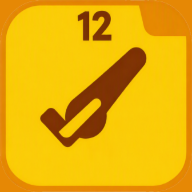
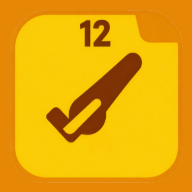
アイコンを ほんの少し縮小（橙の枠が全周 見えるように）— 司さんの指摘
実機のホーム画面で ★橙の枠が端末の丸めに削られて 見えなくなっていた★。
・カードを ★90%★ に縮めた（下地は枠と同じ橙なので 縮めても白は出ない）
  倍率は 100/94/90/86/82% を ★丸めた形で並べて見比べて★ 決めた
・maskable（Android）は 74%（内側だけ残す機種でも図柄が切れない）

実測: 5枚の端 5712点 ／ ★白 0点・薄い色 0点★
node tests/run.js → 全部 緑（32本）

Claude-Session: https://claude.ai/code/session_01XubSutqQm3uxgvTByL8qyQ

diff --git a/index.html b/index.html
@@ -4,24 +4,24 @@
     <meta charset="utf-8" />
     <meta name="viewport" content="width=device-width,initial-scale=1,viewport-fit=cover" />
     <title>Timeally — 一覧</title>
-    <link rel="icon" href="icons/favicon-32.png?v=eb03f239" sizes="32x32" />
-    <link rel="apple-touch-icon" href="icons/apple-touch-icon.png?v=eb03f239" />
+    <link rel="icon" href="icons/favicon-32.png?v=f5c28e80" sizes="32x32" />
+    <link rel="apple-touch-icon" href="icons/apple-touch-icon.png?v=f5c28e80" />
     <meta name="apple-mobile-web-app-capable" content="yes" />
     <meta name="apple-mobile-web-app-status-bar-style" content="default" />
     <meta name="apple-mobile-web-app-title" content="Timeally" />
     <meta name="theme-color" content="#FFC72C" />
-    <link rel="manifest" href="manifest.json?v=eb03f239" />
+    <link rel="manifest" href="manifest.json?v=f5c28e80" />
     <link rel="preconnect" href="https://fonts.googleapis.com" />
     <link rel="preconnect" href="https://fonts.gstatic.com" crossorigin />
     <link href="https://fonts.googleapis.com/css2?family=DM+Mono:wght@400;500&family=Noto+Sans+JP:wght@400;700&display=swap" rel="stylesheet" />
-    <link rel="stylesheet" href="css/timeally.css?v=eb03f239" />
+    <link rel="stylesheet" href="css/timeally.css?v=f5c28e80" />
   </head>
   <body>
     <div class="tc-appbar">
       <h1>Timeally</h1>
       <span class="tc-sub" id="coname"></span>
       <span class="tc-spacer"></span>
-      <a class="tc-btn sub" href="shukei.html?v=eb03f239">集計・印刷</a>
+      <a class="tc-btn sub" href="shukei.html?v=f5c28e80">集計・印刷</a>
     </div>
 
     <div class="tc-wrap" id="main" hidden>
@@ -108,17 +108,17 @@
       </section>
     </div>
     <script src="https://cdn.jsdelivr.net/npm/@supabase/supabase-js@2"></script>
-    <script src="js/supa-config.js?v=eb03f239"></script>
-    <script src="js/env-badge.js?v=eb03f239"></script>
-    <script src="lib/tc-law.js?v=eb03f239"></script>
-    <script src="lib/tc-calc.js?v=eb03f239"></script>
-    <script src="lib/tc-csv.js?v=eb03f239"></script>
-    <script src="lib/tc-name.js?v=eb03f239"></script>
-    <script src="lib/qr.js?v=eb03f239"></script>
-    <script src="js/file-out.js?v=eb03f239"></script>
-    <script src="js/tc-ui.js?v=eb03f239"></script>
-    <script src="js/tc-db.js?v=eb03f239"></script>
-    <script src="js/owner-app.js?v=eb03f239"></script>
+    <script src="js/supa-config.js?v=f5c28e80"></script>
+    <script src="js/env-badge.js?v=f5c28e80"></script>
+    <script src="lib/tc-law.js?v=f5c28e80"></script>
+    <script src="lib/tc-calc.js?v=f5c28e80"></script>
+    <script src="lib/tc-csv.js?v=f5c28e80"></script>
+    <script src="lib/tc-name.js?v=f5c28e80"></script>
+    <script src="lib/qr.js?v=f5c28e80"></script>
+    <script src="js/file-out.js?v=f5c28e80"></script>
+    <script src="js/tc-ui.js?v=f5c28e80"></script>
+    <script src="js/tc-db.js?v=f5c28e80"></script>
+    <script src="js/owner-app.js?v=f5c28e80"></script>
     <script>
       OwnerApp.startIndex();
     </script>

diff --git a/shukei.html b/shukei.html
@@ -4,24 +4,24 @@
     <meta charset="utf-8" />
     <meta name="viewport" content="width=device-width,initial-scale=1,viewport-fit=cover" />
     <title>Timeally — 集計・印刷</title>
-    <link rel="icon" href="icons/favicon-32.png?v=eb03f239" sizes="32x32" />
-    <link rel="apple-touch-icon" href="icons/apple-touch-icon.png?v=eb03f239" />
+    <link rel="icon" href="icons/favicon-32.png?v=f5c28e80" sizes="32x32" />
+    <link rel="apple-touch-icon" href="icons/apple-touch-icon.png?v=f5c28e80" />
     <meta name="apple-mobile-web-app-capable" content="yes" />
     <meta name="apple-mobile-web-app-status-bar-style" content="default" />
     <meta name="apple-mobile-web-app-title" content="Timeally" />
     <meta name="theme-color" content="#FFC72C" />
-    <link rel="manifest" href="manifest.json?v=eb03f239" />
+    <link rel="manifest" href="manifest.json?v=f5c28e80" />
     <link rel="preconnect" href="https://fonts.googleapis.com" />
     <link rel="preconnect" href="https://fonts.gstatic.com" crossorigin />
     <link href="https://fonts.googleapis.com/css2?family=DM+Mono:wght@400;500&family=Noto+Sans+JP:wght@400;700&display=swap" rel="stylesheet" />
-    <link rel="stylesheet" href="css/timeally.css?v=eb03f239" />
+    <link rel="stylesheet" href="css/timeally.css?v=f5c28e80" />
   </head>
   <body>
     <div class="tc-appbar">
       <h1>Timeally</h1>
       <span class="tc-sub">集計・印刷</span>
       <span class="tc-spacer"></span>
-      <a class="tc-btn sub" href="index.html?v=eb03f239">一覧へ</a>
+      <a class="tc-btn sub" href="index.html?v=f5c28e80">一覧へ</a>
     </div>
 
     <div class="tc-wrap" id="main" hidden>
@@ -54,16 +54,16 @@
       </div>
     </div>
     <script src="https://cdn.jsdelivr.net/npm/@supabase/supabase-js@2"></script>
-    <script src="js/supa-config.js?v=eb03f239"></script>
-    <script src="js/env-badge.js?v=eb03f239"></script>
-    <script src="lib/tc-law.js?v=eb03f239"></script>
-    <script src="lib/tc-calc.js?v=eb03f239"></script>
-    <script src="lib/tc-csv.js?v=eb03f239"></script>
-    <script src="lib/tc-name.js?v=eb03f239"></script>
-    <script src="js/file-out.js?v=eb03f239"></script>
-    <script src="js/tc-ui.js?v=eb03f239"></script>
-    <script src="js/tc-db.js?v=eb03f239"></script>
-    <script src="js/owner-app.js?v=eb03f239"></script>
+    <script src="js/supa-config.js?v=f5c28e80"></script>
+    <script src="js/env-badge.js?v=f5c28e80"></script>
+    <script src="lib/tc-law.js?v=f5c28e80"></script>
+    <script src="lib/tc-calc.js?v=f5c28e80"></script>
+    <script src="lib/tc-csv.js?v=f5c28e80"></script>
+    <script src="lib/tc-name.js?v=f5c28e80"></script>
+    <script src="js/file-out.js?v=f5c28e80"></script>
+    <script src="js/tc-ui.js?v=f5c28e80"></script>
+    <script src="js/tc-db.js?v=f5c28e80"></script>
+    <script src="js/owner-app.js?v=f5c28e80"></script>
     <script>
       OwnerApp.startShukei();
     </script>

diff --git a/login.html b/login.html
@@ -4,17 +4,17 @@
     <meta charset="utf-8" />
     <meta name="viewport" content="width=device-width,initial-scale=1,viewport-fit=cover" />
     <title>Timeally — 会社の入口</title>
-    <link rel="icon" href="icons/favicon-32.png?v=eb03f239" sizes="32x32" />
-    <link rel="apple-touch-icon" href="icons/apple-touch-icon.png?v=eb03f239" />
+    <link rel="icon" href="icons/favicon-32.png?v=f5c28e80" sizes="32x32" />
+    <link rel="apple-touch-icon" href="icons/apple-touch-icon.png?v=f5c28e80" />
     <meta name="apple-mobile-web-app-capable" content="yes" />
     <meta name="apple-mobile-web-app-status-bar-style" content="default" />
     <meta name="apple-mobile-web-app-title" content="Timeally" />
     <meta name="theme-color" content="#FFC72C" />
-    <link rel="manifest" href="manifest.json?v=eb03f239" />
+    <link rel="manifest" href="manifest.json?v=f5c28e80" />
     <link rel="preconnect" href="https://fonts.googleapis.com" />
     <link rel="preconnect" href="https://fonts.gstatic.com" crossorigin />
     <link href="https://fonts.googleapis.com/css2?family=DM+Mono:wght@400;500&family=Noto+Sans+JP:wght@400;700&display=swap" rel="stylesheet" />
-    <link rel="stylesheet" href="css/timeally.css?v=eb03f239" />
+    <link rel="stylesheet" href="css/timeally.css?v=f5c28e80" />
   </head>
   <body>
     <div class="tc-appbar">
@@ -43,11 +43,11 @@
     </div>
 
     <script src="https://cdn.jsdelivr.net/npm/@supabase/supabase-js@2"></script>
-    <script src="js/supa-config.js?v=eb03f239"></script>
-    <script src="js/env-badge.js?v=eb03f239"></script>
-    <script src="js/tc-ui.js?v=eb03f239"></script>
-    <script src="js/tc-db.js?v=eb03f239"></script>
-    <script src="js/owner-app.js?v=eb03f239"></script>
+    <script src="js/supa-config.js?v=f5c28e80"></script>
+    <script src="js/env-badge.js?v=f5c28e80"></script>
+    <script src="js/tc-ui.js?v=f5c28e80"></script>
+    <script src="js/tc-db.js?v=f5c28e80"></script>
+    <script src="js/owner-app.js?v=f5c28e80"></script>
     <script>
       OwnerApp.startLogin();
     </script>

diff --git a/kiroku.html b/kiroku.html
@@ -5,8 +5,8 @@
     <meta name="viewport" content="width=device-width,initial-scale=1,viewport-fit=cover" />
     <meta name="format-detection" content="telephone=no" />
     <title>Timeally — 自分の記録</title>
-    <link rel="icon" href="icons/favicon-32.png?v=eb03f239" sizes="32x32" />
-    <link rel="apple-touch-icon" href="icons/apple-touch-icon.png?v=eb03f239" />
+    <link rel="icon" href="icons/favicon-32.png?v=f5c28e80" sizes="32x32" />
+    <link rel="apple-touch-icon" href="icons/apple-touch-icon.png?v=f5c28e80" />
     <meta name="apple-mobile-web-app-capable" content="yes" />
     <meta name="apple-mobile-web-app-status-bar-style" content="default" />
     <meta name="apple-mobile-web-app-title" content="Timeally" />
@@ -14,7 +14,7 @@
     <link rel="preconnect" href="https://fonts.googleapis.com" />
     <link rel="preconnect" href="https://fonts.gstatic.com" crossorigin />
     <link href="https://fonts.googleapis.com/css2?family=DM+Mono:wght@400;500&family=Noto+Sans+JP:wght@400;700&display=swap" rel="stylesheet" />
-    <link rel="stylesheet" href="css/timeally.css?v=eb03f239" />
+    <link rel="stylesheet" href="css/timeally.css?v=f5c28e80" />
   </head>
   <body>
     <div class="tc-appbar">
@@ -71,11 +71,11 @@
     </div>
 
     <script src="https://cdn.jsdelivr.net/npm/@supabase/supabase-js@2"></script>
-    <script src="js/supa-config.js?v=eb03f239"></script>
-    <script src="js/env-badge.js?v=eb03f239"></script>
-    <script src="js/tc-ui.js?v=eb03f239"></script>
-    <script src="js/tc-db.js?v=eb03f239"></script>
-    <script src="js/emp-app.js?v=eb03f239"></script>
+    <script src="js/supa-config.js?v=f5c28e80"></script>
+    <script src="js/env-badge.js?v=f5c28e80"></script>
+    <script src="js/tc-ui.js?v=f5c28e80"></script>
+    <script src="js/tc-db.js?v=f5c28e80"></script>
+    <script src="js/emp-app.js?v=f5c28e80"></script>
     <script>
       EmpApp.startKiroku();
     </script>

diff --git a/punch.html b/punch.html
@@ -5,8 +5,8 @@
     <meta name="viewport" content="width=device-width,initial-scale=1,viewport-fit=cover" />
     <meta name="format-detection" content="telephone=no" />
     <title>Timeally — 打刻</title>
-    <link rel="icon" href="icons/favicon-32.png?v=eb03f239" sizes="32x32" />
-    <link rel="apple-touch-icon" href="icons/apple-touch-icon.png?v=eb03f239" />
+    <link rel="icon" href="icons/favicon-32.png?v=f5c28e80" sizes="32x32" />
+    <link rel="apple-touch-icon" href="icons/apple-touch-icon.png?v=f5c28e80" />
     <meta name="apple-mobile-web-app-capable" content="yes" />
     <meta name="apple-mobile-web-app-status-bar-style" content="default" />
     <meta name="apple-mobile-web-app-title" content="Timeally" />
@@ -14,7 +14,7 @@
     <link rel="preconnect" href="https://fonts.googleapis.com" />
     <link rel="preconnect" href="https://fonts.gstatic.com" crossorigin />
     <link href="https://fonts.googleapis.com/css2?family=DM+Mono:wght@400;500&family=Noto+Sans+JP:wght@400;700&display=swap" rel="stylesheet" />
-    <link rel="stylesheet" href="css/timeally.css?v=eb03f239" />
+    <link rel="stylesheet" href="css/timeally.css?v=f5c28e80" />
   </head>
   <body>
     <div class="tc-appbar">
@@ -72,11 +72,11 @@
     </div>
 
     <script src="https://cdn.jsdelivr.net/npm/@supabase/supabase-js@2"></script>
-    <script src="js/supa-config.js?v=eb03f239"></script>
-    <script src="js/env-badge.js?v=eb03f239"></script>
-    <script src="js/tc-ui.js?v=eb03f239"></script>
-    <script src="js/tc-db.js?v=eb03f239"></script>
-    <script src="js/emp-app.js?v=eb03f239"></script>
+    <script src="js/supa-config.js?v=f5c28e80"></script>
+    <script src="js/env-badge.js?v=f5c28e80"></script>
+    <script src="js/tc-ui.js?v=f5c28e80"></script>
+    <script src="js/tc-db.js?v=f5c28e80"></script>
+    <script src="js/emp-app.js?v=f5c28e80"></script>
     <script>
       EmpApp.startPunch();
     </script>
